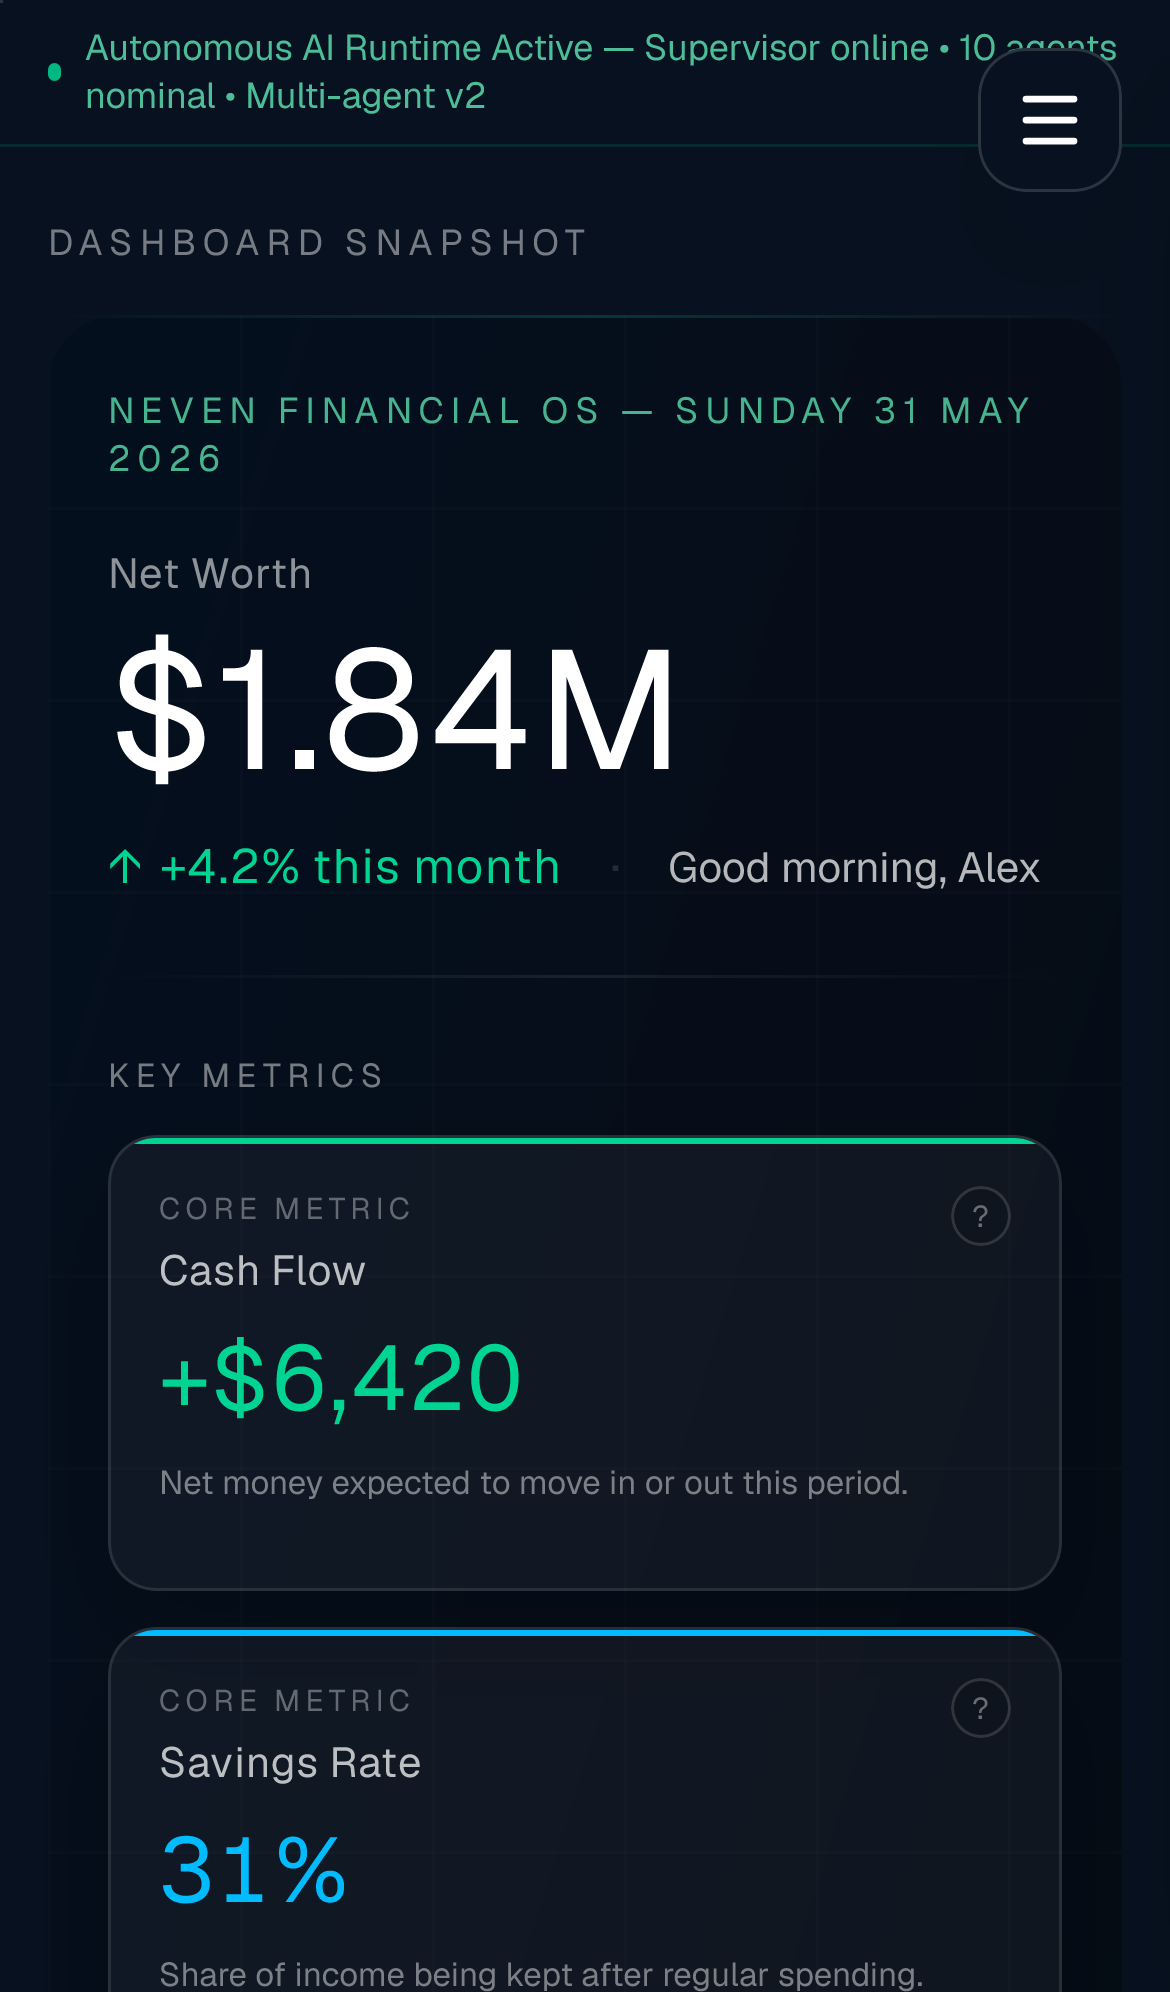
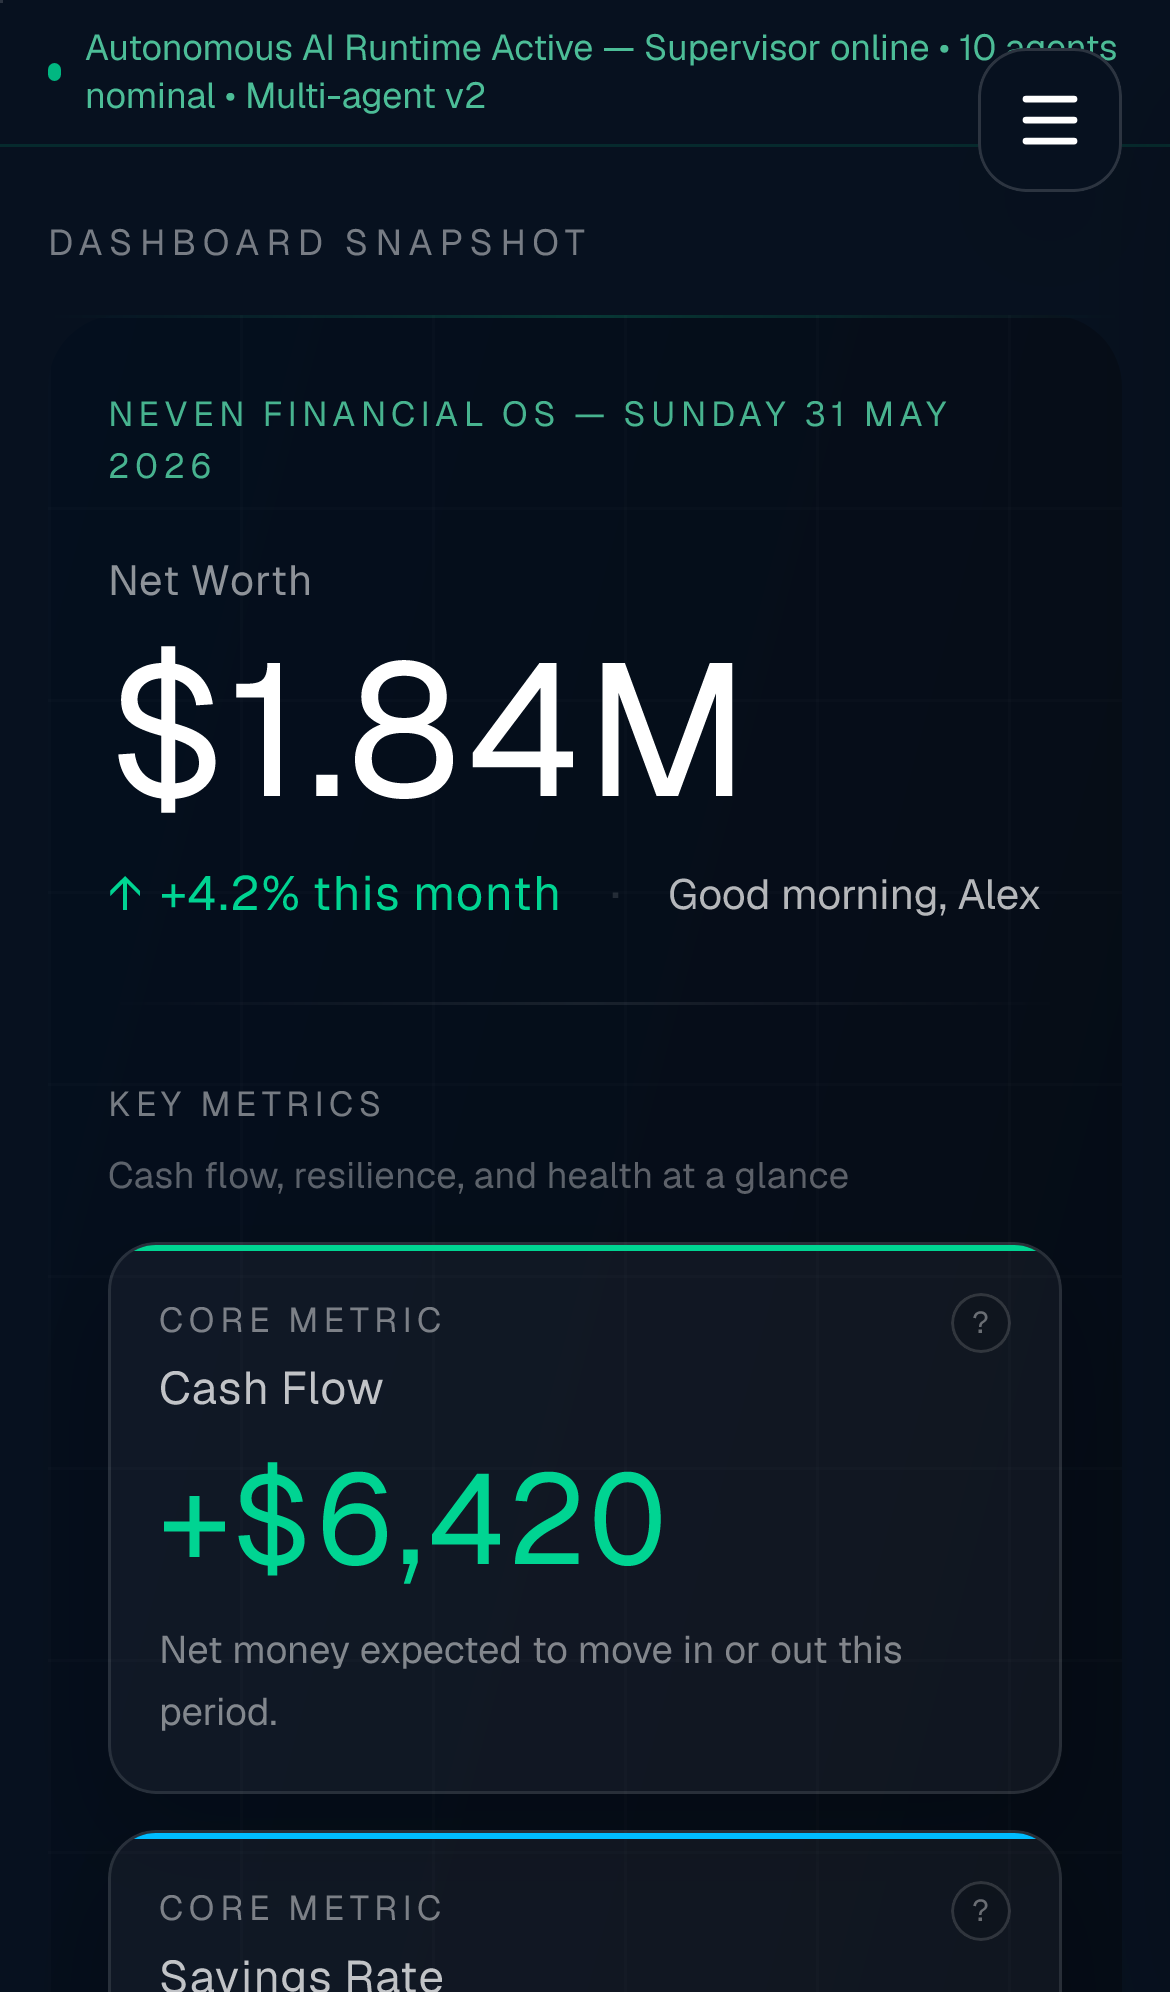
Improve Neven: Fix Neven browser health errors from automated Playwright ch

diff --git a/src/app/components/OverviewV3.tsx b/src/app/components/OverviewV3.tsx
@@ -25,6 +25,14 @@ interface OverviewV3Props {
 
 const LAYER_LABEL =
   "text-xs font-semibold uppercase tracking-[0.18em] text-white/45";
+const RESPONSIVE_EYEBROW =
+  "text-[0.72rem] font-semibold uppercase tracking-[0.14em] text-white/45 sm:text-xs sm:tracking-[0.18em]";
+const RESPONSIVE_LABEL =
+  "text-[0.95rem] font-semibold leading-snug text-white/74 sm:text-sm";
+const RESPONSIVE_COPY =
+  "text-[0.8rem] leading-relaxed text-white/48 sm:text-xs";
+const RESPONSIVE_VALUE =
+  "font-bold tabular-nums leading-none tracking-normal";
 
 export default function OverviewV3({
   netWorth,
@@ -280,7 +288,7 @@ export default function OverviewV3({
           />
 
           <div className="relative px-5 py-6 sm:px-8 sm:py-7 lg:px-10">
-            <p className="text-xs font-semibold uppercase tracking-[0.18em] text-emerald-300/75">
+            <p className="text-[0.72rem] font-semibold uppercase tracking-[0.14em] text-emerald-300/75 sm:text-xs sm:tracking-[0.18em]">
               Neven Financial OS &mdash; {dateStr}
             </p>
 
@@ -291,7 +299,7 @@ export default function OverviewV3({
               </div>
               <h1
                 className="font-bold leading-none tracking-tight text-white"
-                style={{ fontSize: "clamp(3.5rem, 9vw, 7.5rem)" }}
+                style={{ fontSize: "clamp(3.1rem, 16vw, 7.5rem)" }}
               >
                 {netWorth}
               </h1>
@@ -309,11 +317,11 @@ export default function OverviewV3({
 
             {/* KPI row */}
             <div className="mt-6">
-              <div className="mb-3 flex items-center justify-between gap-4">
-                <div className="text-[11px] font-semibold uppercase tracking-[0.18em] text-white/45">
+              <div className="mb-3 flex flex-col gap-1.5 sm:flex-row sm:items-center sm:justify-between sm:gap-4">
+                <div className={RESPONSIVE_EYEBROW}>
                   Key metrics
                 </div>
-                <div className="hidden text-[11px] font-medium text-white/30 sm:block">
+                <div className="text-[0.76rem] font-medium leading-relaxed text-white/35 sm:block sm:text-[11px] sm:text-white/30">
                   Cash flow, resilience, and health at a glance
                 </div>
               </div>
@@ -322,7 +330,7 @@ export default function OverviewV3({
                 {secondaryMetrics.map((m) => (
                   <div
                     key={m.label}
-                    className={`relative flex h-full min-h-[152px] flex-col overflow-hidden rounded-2xl border p-4 shadow-[0_16px_36px_rgba(0,0,0,0.16)] ${
+                    className={`relative flex h-full min-h-[168px] flex-col overflow-hidden rounded-2xl border p-4 shadow-[0_16px_36px_rgba(0,0,0,0.16)] sm:min-h-[152px] ${
                       m.priority === "status"
                         ? "border-emerald-400/25 bg-emerald-400/[0.07] sm:col-span-2 lg:col-span-1"
                         : "border-white/[0.1] bg-white/[0.045]"
@@ -331,10 +339,10 @@ export default function OverviewV3({
                     <div className={`absolute inset-x-0 top-0 h-0.5 ${accentBarClass[m.accent]}`} />
                     <div className="mb-3 flex items-start justify-between gap-3">
                       <div className="min-w-0">
-                        <div className="text-[10px] font-semibold uppercase tracking-[0.16em] text-white/35">
+                        <div className={RESPONSIVE_EYEBROW}>
                           {priorityLabel[m.priority]}
                         </div>
-                        <div className="mt-1 text-sm font-semibold leading-tight text-white/72">
+                        <div className={`mt-1 ${RESPONSIVE_LABEL}`}>
                           {m.label}
                         </div>
                       </div>
@@ -352,17 +360,17 @@ export default function OverviewV3({
                       </span>
                     </div>
                     <div
-                      className={`font-bold tabular-nums leading-none tracking-normal ${accentClass[m.accent]}`}
-                      style={{ fontSize: "clamp(1.9rem, 4vw, 2.45rem)" }}
+                      className={`${RESPONSIVE_VALUE} ${accentClass[m.accent]}`}
+                      style={{ fontSize: "clamp(2.2rem, 12vw, 2.65rem)" }}
                     >
                       {m.value}
                     </div>
                     {m.detail && (
-                      <div className={`mt-2 text-xs font-semibold ${accentClass[m.accent]} opacity-75`}>
+                      <div className={`mt-2 text-[0.82rem] font-semibold sm:text-xs ${accentClass[m.accent]} opacity-75`}>
                         {m.detail}
                       </div>
                     )}
-                    <p className="mt-3 flex-1 text-[11px] leading-snug text-white/45">
+                    <p className={`mt-3 flex-1 ${RESPONSIVE_COPY}`}>
                       {m.explanation}
                     </p>
                     {m.progress !== undefined && (
@@ -384,18 +392,18 @@ export default function OverviewV3({
         {/* Portfolio + Health sub-scores below hero */}
         <div className="mt-7 grid gap-6 xl:grid-cols-3">
           <div className="rounded-2xl border border-white/[0.08] bg-white/[0.025] p-5 xl:col-span-2">
-            <h2 className="pb-4 text-sm font-semibold text-white border-b border-white/[0.08]">
+            <h2 className="border-b border-white/[0.08] pb-4 text-base font-semibold leading-snug text-white sm:text-sm">
               Portfolio Allocation
             </h2>
             <div className="mt-5 space-y-5">
               {portfolioAllocation.map((item) => (
                 <div key={item.label}>
-                  <div className="flex items-center justify-between mb-2.5">
-                    <div className="flex items-center gap-2.5">
+                  <div className="mb-2.5 flex flex-wrap items-baseline justify-between gap-x-4 gap-y-1">
+                    <div className="flex min-w-0 items-center gap-2.5">
                       <span className={`h-2 w-2 rounded-full shrink-0 ${item.color}`} />
-                      <span className="text-sm font-medium text-white/68">{item.label}</span>
+                      <span className="text-[0.95rem] font-medium leading-snug text-white/70 sm:text-sm">{item.label}</span>
                     </div>
-                    <span className="text-sm font-bold tabular-nums text-white/78">{item.pct}%</span>
+                    <span className="text-base font-bold tabular-nums leading-none text-white/80 sm:text-sm">{item.pct}%</span>
                   </div>
                   <div className="h-1.5 w-full rounded-full bg-white/[0.06]">
                     <div
@@ -409,23 +417,23 @@ export default function OverviewV3({
           </div>
 
           <div className="rounded-2xl border border-emerald-400/15 bg-white/[0.03] p-5 shadow-[0_0_42px_rgba(16,185,129,0.06)]">
-            <div className="flex items-start justify-between gap-4 border-b border-white/[0.08] pb-4">
+            <div className="flex flex-col gap-4 border-b border-white/[0.08] pb-4 min-[420px]:flex-row min-[420px]:items-start min-[420px]:justify-between">
               <div>
-                <h2 className="text-sm font-semibold text-white">
+                <h2 className="text-base font-semibold leading-snug text-white sm:text-sm">
                   Health Indicators
                 </h2>
-                <p className="mt-1 text-xs text-white/42">
+                <p className={RESPONSIVE_COPY}>
                   Drivers behind the Financial Health score
                 </p>
               </div>
-              <div className={`rounded-xl border px-3 py-2 text-right ${healthScoreTone}`}>
-                <div className="text-[10px] font-semibold uppercase tracking-[0.16em] opacity-70">
+              <div className={`self-start rounded-xl border px-3 py-2 text-left min-[420px]:text-right ${healthScoreTone}`}>
+                <div className="text-[0.68rem] font-semibold uppercase tracking-[0.12em] opacity-70 sm:text-[10px] sm:tracking-[0.16em]">
                   Financial Health
                 </div>
-                <div className="mt-1 text-2xl font-bold tabular-nums leading-none">
+                <div className="mt-1 text-[2rem] font-bold tabular-nums leading-none sm:text-2xl">
                   {healthScore}
                 </div>
-                <div className="mt-1 text-[10px] font-semibold opacity-70">
+                <div className="mt-1 text-[0.72rem] font-semibold opacity-70 sm:text-[10px]">
                   {healthLabel}
                 </div>
               </div>
@@ -433,23 +441,23 @@ export default function OverviewV3({
 
             {healthFocus && (
               <div className="mt-4 rounded-xl border border-white/[0.08] bg-black/10 p-3">
-                <div className="flex items-center justify-between gap-3">
-                  <span className="text-[10px] font-semibold uppercase tracking-[0.16em] text-white/35">
+                <div className="flex flex-wrap items-center justify-between gap-x-3 gap-y-1">
+                  <span className={RESPONSIVE_EYEBROW}>
                     Focus area
                   </span>
-                  <span className="text-xs font-semibold text-white/55">
+                  <span className="text-[0.8rem] font-semibold leading-snug text-white/55 sm:text-xs">
                     {healthLabel} overall
                   </span>
                 </div>
-                <div className="mt-2 flex items-baseline justify-between gap-4">
-                  <span className="text-sm font-semibold text-white/78">
+                <div className="mt-2 flex flex-wrap items-baseline justify-between gap-x-4 gap-y-1">
+                  <span className={RESPONSIVE_LABEL}>
                     {healthFocus.label}
                   </span>
-                  <span className="text-sm font-bold tabular-nums text-amber-300">
+                  <span className="text-lg font-bold tabular-nums leading-none text-amber-300 sm:text-sm">
                     {healthFocus.score}
                   </span>
                 </div>
-                <p className="mt-1 text-xs text-white/42">{healthFocus.note}</p>
+                <p className={`mt-1 ${RESPONSIVE_COPY}`}>{healthFocus.note}</p>
               </div>
             )}
 
@@ -471,12 +479,12 @@ export default function OverviewV3({
                   <div key={item.label} className={`rounded-xl border bg-white/[0.035] p-3 ${borderCol}`}>
                     <div className="flex items-start justify-between gap-3">
                       <div className="min-w-0">
-                        <div className="text-xs font-semibold text-white/72">
+                        <div className="text-[0.9rem] font-semibold leading-snug text-white/74 sm:text-xs">
                           {item.label}
                         </div>
-                        <div className="mt-1 text-xs text-white/40">{item.note}</div>
+                        <div className={`mt-1 ${RESPONSIVE_COPY}`}>{item.note}</div>
                       </div>
-                      <div className={`text-2xl font-bold tabular-nums leading-none ${numCol}`}>
+                      <div className={`text-[2rem] font-bold tabular-nums leading-none sm:text-2xl ${numCol}`}>
                         {item.score}
                       </div>
                     </div>

diff --git a/tools/neven-supervisor/supervisor.ts b/tools/neven-supervisor/supervisor.ts
@@ -891,14 +891,18 @@ function sendJson(res: http.ServerResponse, statusCode: number, payload: unknown
   res.statusCode = statusCode;
   res.setHeader("Content-Type", "application/json");
   res.setHeader("Access-Control-Allow-Origin", "http://localhost:3000");
-  res.setHeader("Access-Control-Allow-Methods", "GET, POST, OPTIONS");
+  res.setHeader("Access-Control-Allow-Methods", "GET,POST,OPTIONS");
   res.setHeader("Access-Control-Allow-Headers", "Content-Type");
   res.end(JSON.stringify(payload, null, 2));
 }
 
 async function handleRequest(req: http.IncomingMessage, res: http.ServerResponse) {
   if (req.method === "OPTIONS") {
-    sendJson(res, 204, {});
+    res.statusCode = 204;
+    res.setHeader("Access-Control-Allow-Origin", "http://localhost:3000");
+    res.setHeader("Access-Control-Allow-Methods", "GET,POST,OPTIONS");
+    res.setHeader("Access-Control-Allow-Headers", "Content-Type");
+    res.end();
     return;
   }
 
@@ -1047,7 +1051,7 @@ const server = http.createServer((req, res) => {
   });
 });
 
-server.listen(PORT, () => {
+server.listen(PORT, "127.0.0.1", () => {
   appendLog("supervisor.started", { port: PORT, repo: REPO });
   console.log(`Neven Supervisor running on http://localhost:${PORT}`);
   console.log(`POST /task {"goal":"Improve Neven onboarding"}`);
